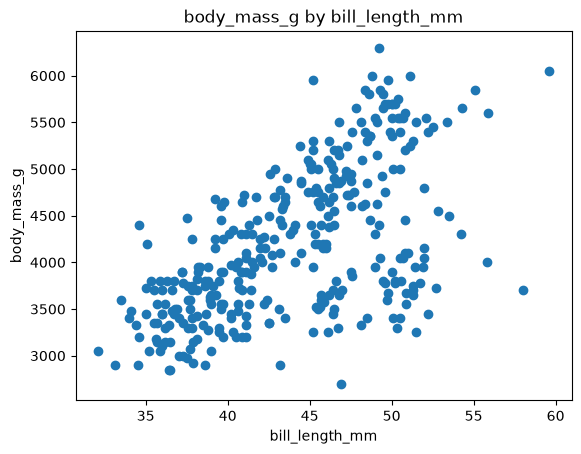
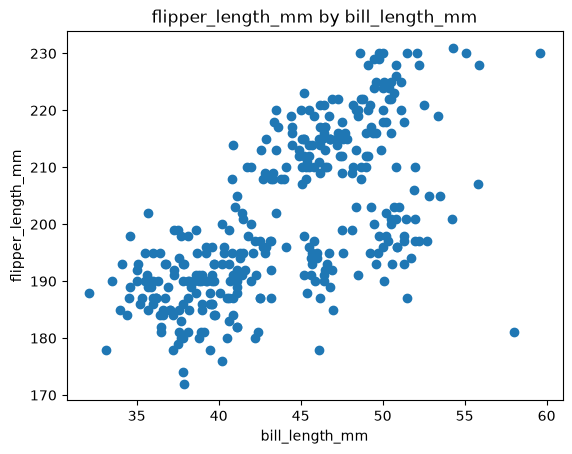
change target variable

diff --git a/src/datafun/newapp.py b/src/datafun/newapp.py
@@ -97,7 +97,7 @@ GRAIN: Final[str] = "one penguin"  # CUSTOM
 # from other columns in the dataset.
 # This must match a numeric column name EXACTLY as it appears in the CSV file.
 # I picked "body_mass_g" as the target column.
-A_TARGET_WE_COULD_PREDICT: Final[str] = "body_mass_g"
+A_TARGET_WE_COULD_PREDICT: Final[str] = "flipper_length_mm"
 
 # CUSTOM: Choose one other NUMERIC column
 # as a FEATURE that might help predict the target.
@@ -113,9 +113,9 @@ A_FEATURE_THAT_MIGHT_HELP: Final[str] = "bill_length_mm"
 # like I typed it.
 # Open and close with three double quotes to get a multi-line string.
 WHY_THE_FEATURE_MIGHT_HELP: Final[str] = r"""
-A bigger penguin probably has both a longer bill and more mass,
-so bill length might help predict body mass.
-That is, a longer bill may indicate a larger body mass.
+A bigger penguin probably has both a longer bill and longer flippers,
+so bill length might help predict flipper length.
+That is, a longer bill may indicate a longer flipper.
 """
 
 

diff --git a/README.md b/README.md
@@ -273,3 +273,4 @@ This project is licensed under the [MIT License](./LICENSE).
 
 ## Descriptions of changes made by Julie Tietz
 1. Changed author name and referenced filename from app.py to newapp.py
+2. Changed one target variable from body mass to flipper length because they likely are positively correlated.
